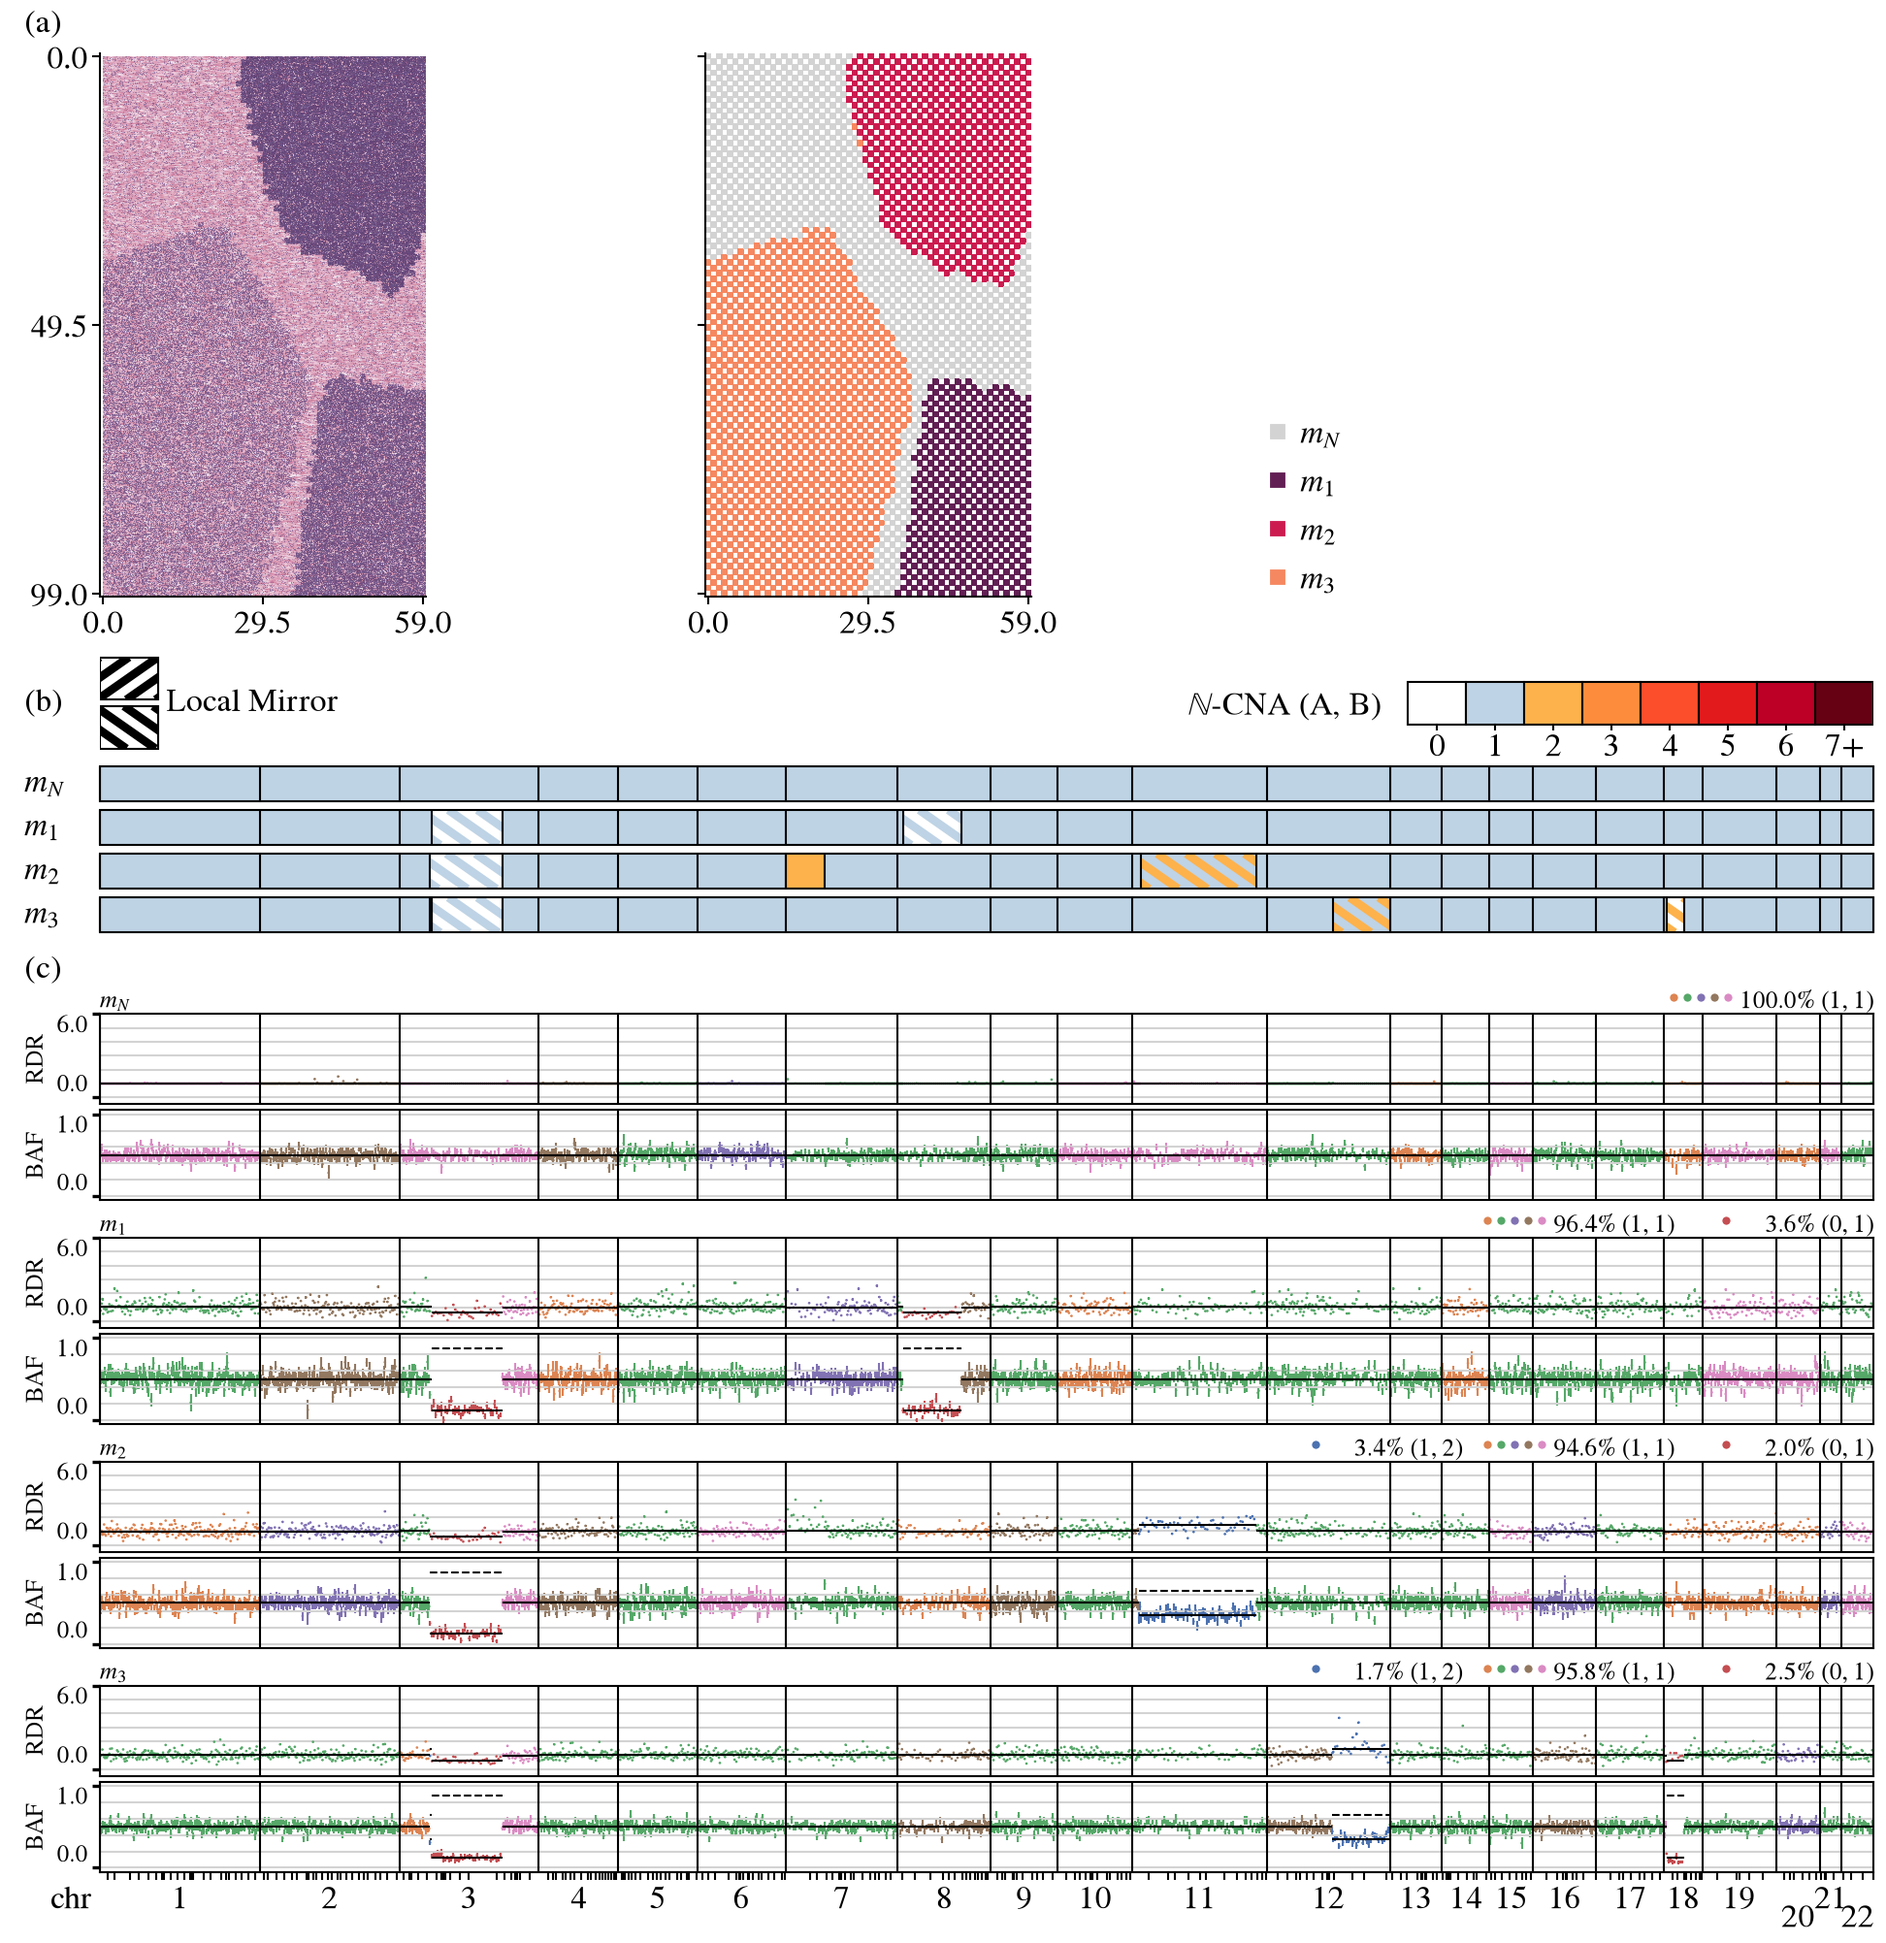
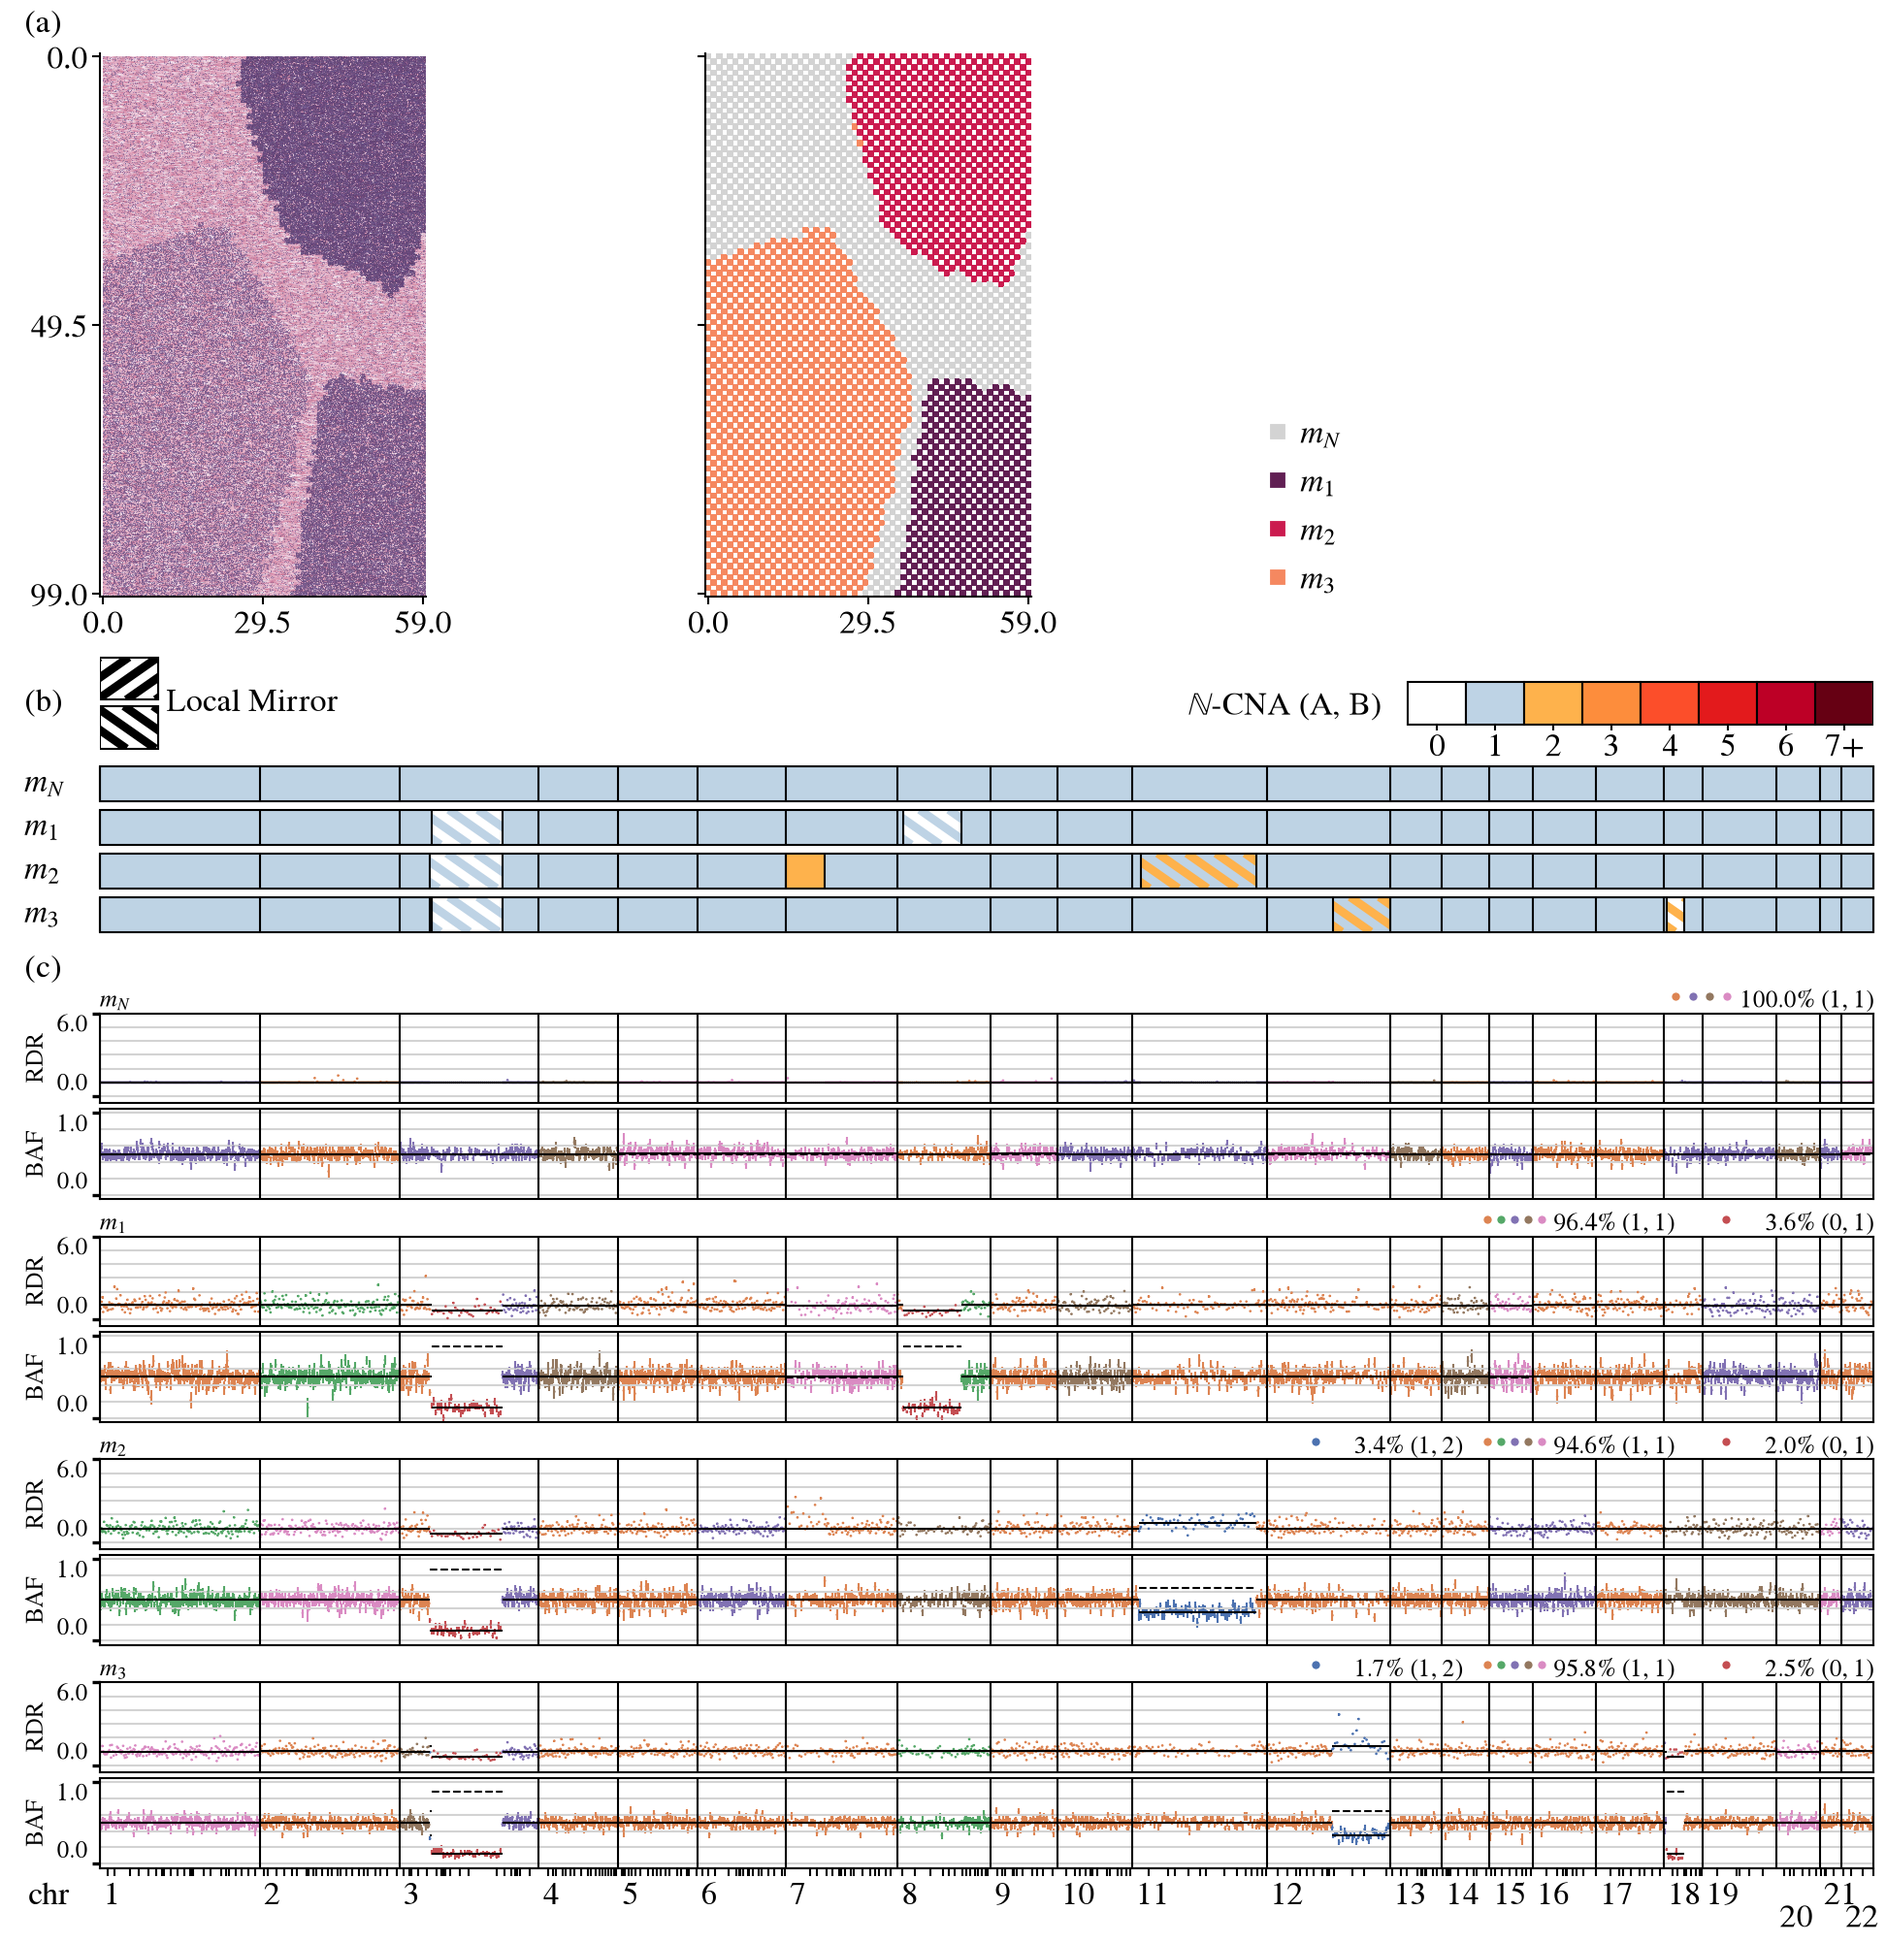
#745: combined.png and truth pages redrawn with left-aligned contig names; ledger row b816552
Claude-Session: https://claude.ai/code/session_01JXaY8ogGJw3Lo2bAgEaAaH

Changed region(s): [[0.0, 0.5262, 1.0, 0.9905]]

diff --git a/docs/plots/paper/README.md b/docs/plots/paper/README.md
@@ -4,8 +4,8 @@
 0.9730, exact altered (phase-free)
 0.9729 (phased 0.2209), from one
 `run_cnaster_port --sal --png-copies` run on `sim/manifests/dev_tree_1s_easy.toml` r0 at
-code `0686a7e`: 201 s wall, 3.48 GB peak.
-Ledger `run_id` `0686a7e-dev_tree_1s_easy_r0-1452` (`docs/metrics/`, fixture `dev_tree_1s_easy_r0` `7ba9b01f`).
+code `b816552`: 260 s wall, 3.42 GB peak.
+Ledger `run_id` `b816552-dev_tree_1s_easy_r0-1508` (`docs/metrics/`, fixture `dev_tree_1s_easy_r0` `7ba9b01f`).
 
 Regenerate from a clean tree, so the commit above carries no `+`; it draws r0 into
 `.cache/paper_figures/` where `--draw` is not given, and refuses any r0 not
@@ -18,7 +18,7 @@ headline figures alone (#745); every other page the run draws (the truth's panel
 the run's own pages, cnaster's copies and the truth-against-fit comparisons) is
 written under `.cache/plots/paper/` and regenerated on demand (`curate`). The figures
 carry no stamp (#743): `truth_combined.png` and `combined.png` are `dev_tree_1s_easy` r0
-`7ba9b01f` at code `0686a7e`, as above. `combined.png` draws panel (a) on a slide
+`7ba9b01f` at code `b816552`, as above. `combined.png` draws panel (a) on a slide
 mocked from the planted labels (`port.sim.he_slide`): the fixture has no H&E image,
 and the run never reads the mock. `solver_combined.png` is not drawn from this fixture:
 `--solvers POTTS.record COPY.record` draws it from a `port.studies.potts_stream` and a
